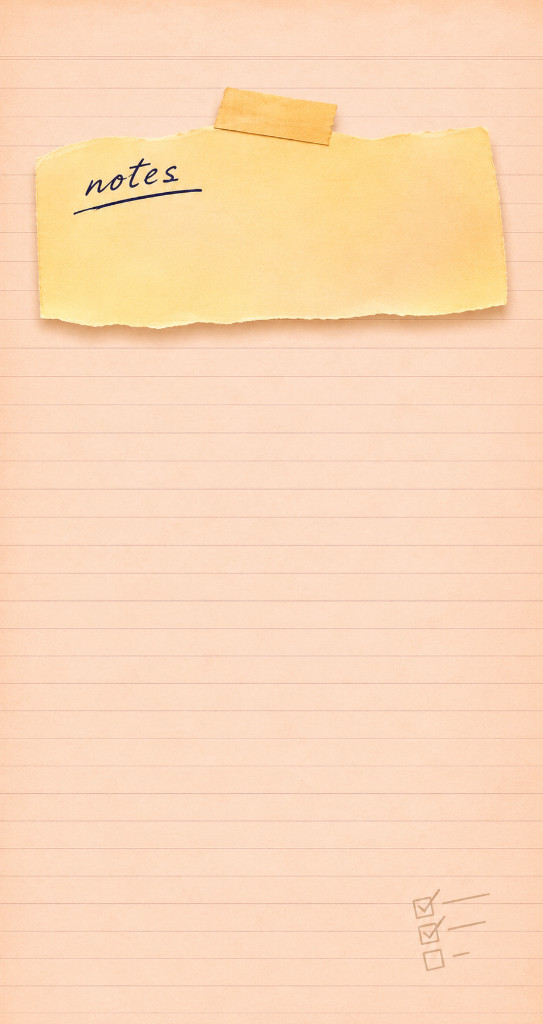
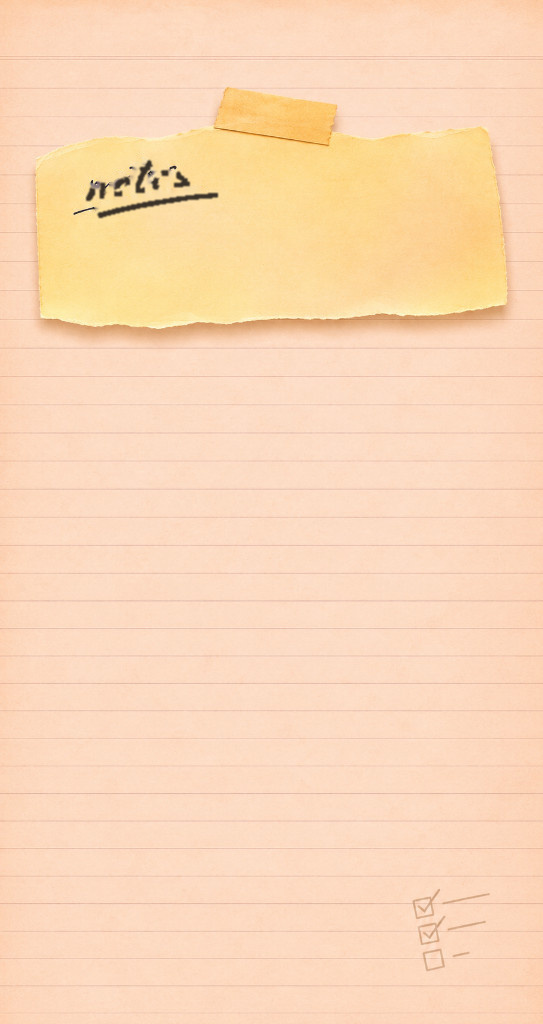
Warm and enlarge Notes wallpaper heading; update mom demo copy
Recolor and scale the handwritten notes mark on the yellow scrap to
match the supporting ink, and refresh the third Demo Mode note body.

Changed region(s): [[0.1473, 0.1562, 0.4125, 0.2188]]

diff --git a/index.html b/index.html
@@ -10448,7 +10448,7 @@ function buildDemoNotes(){
     },
     {
       id:"demo-note-mom",title:"Send money to mom",
-      body:"€200 for her weekend away.",
+      body:"Send €200 for her birthday weekend away.",
       color:"peach",pinned:false,collapsed:true,
       createdAt:demoDaysAgoISO(12),
       checklist:[]

diff --git a/service-worker.js b/service-worker.js
@@ -1,5 +1,5 @@
 /* Freedom at 50 — wallpaper cache restored (render never gated on preload) */
-const CACHE_NAME = "freedom-at-50-v1.8.6.130";
+const CACHE_NAME = "freedom-at-50-v1.8.6.131";
 const WALLPAPER_CACHE = "freedom-wallpapers-v3";
 const WALLPAPERS = [
   "./companion-select-wallpaper.jpg",
